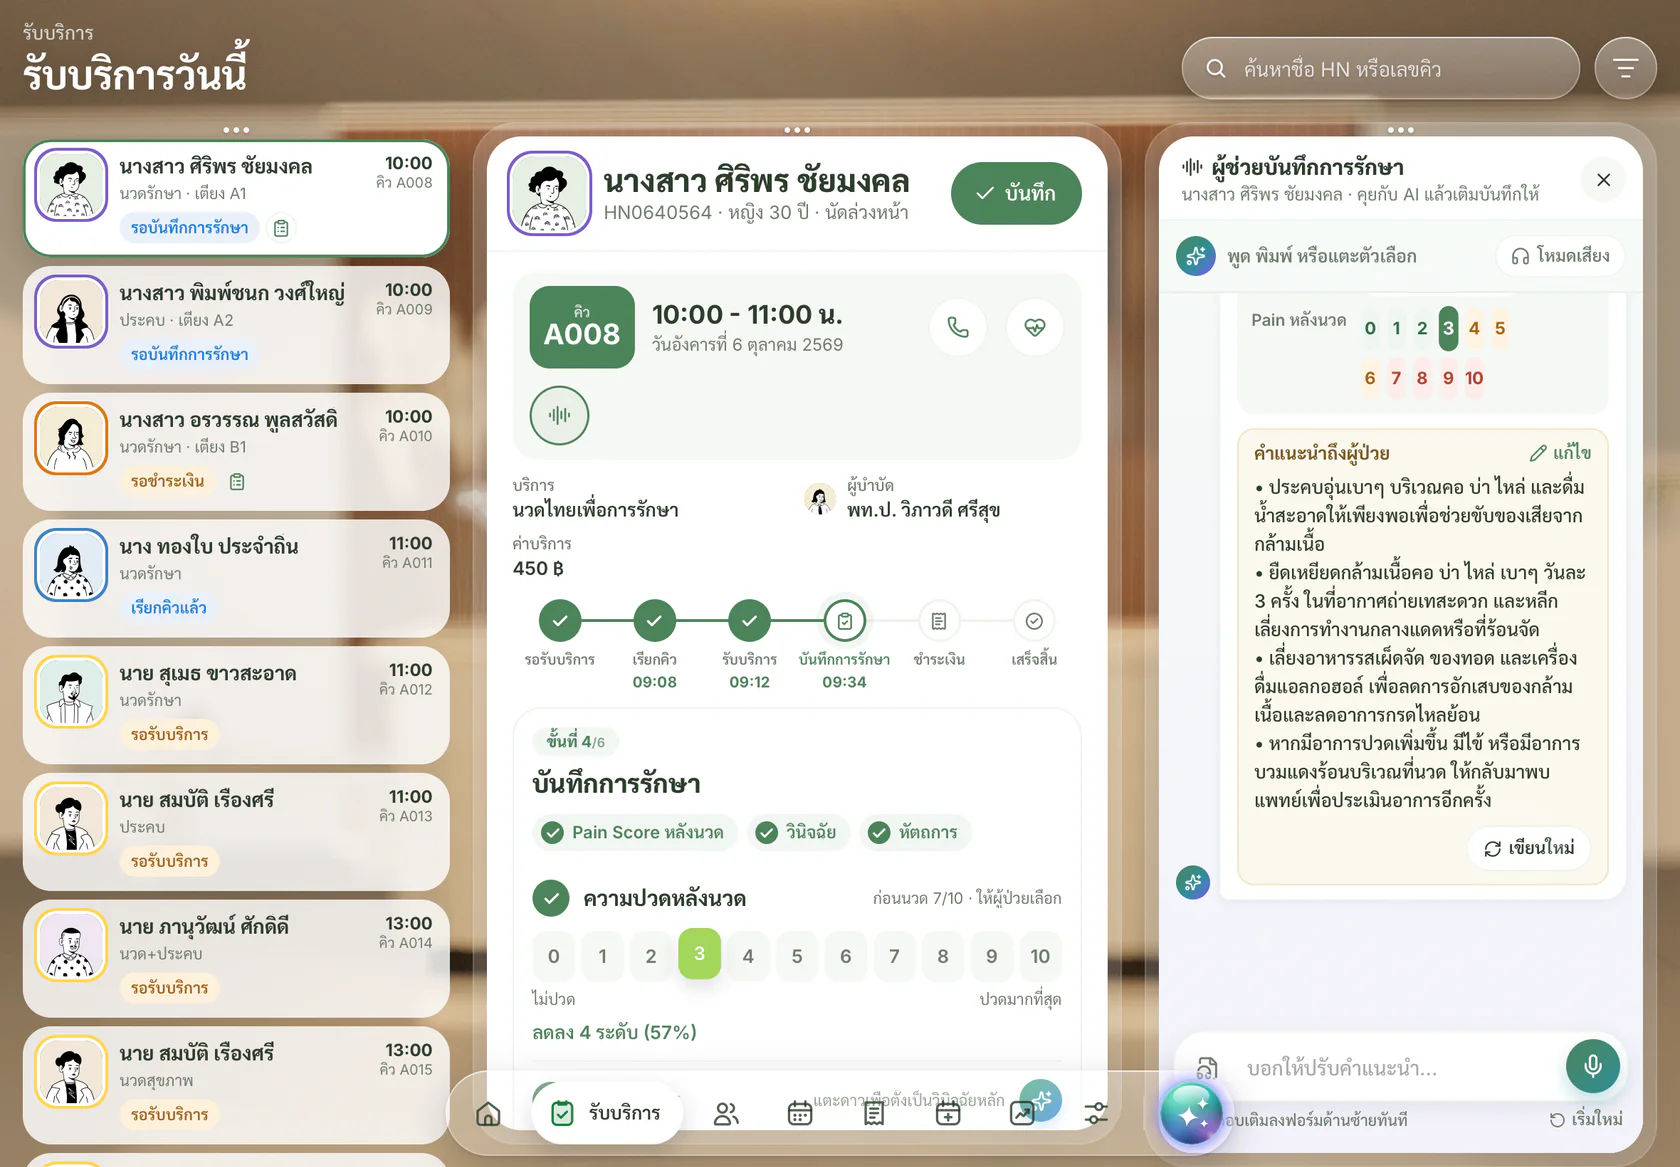
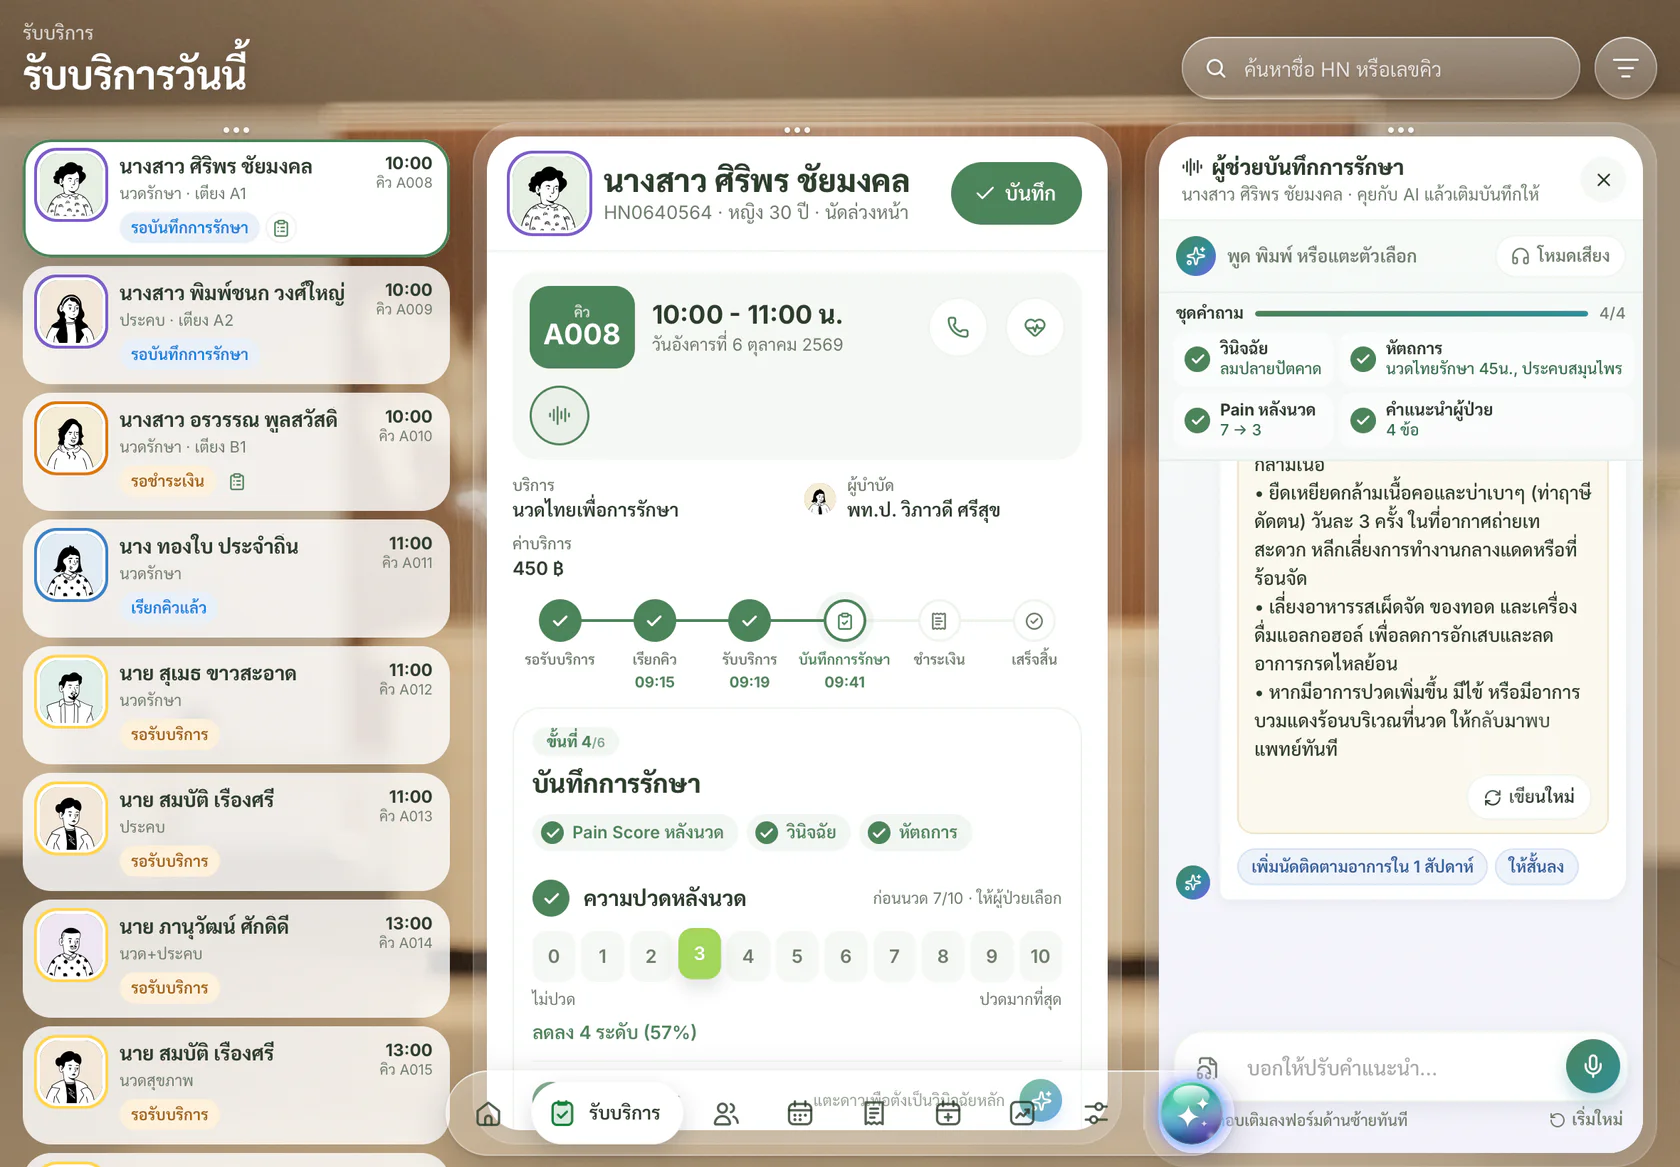
Treatment assistant: question set and quick replies
- 'ชุดคำถาม' panel: diagnosis / procedures / pain after / advice in a 2×2 grid with progress,
  answered values, the current question highlighted; tap one to have the AI ask it again
- Quick-reply chips under questions (example summaries, procedures, advice tweaks)
- QA, guide, tutorial and iPad app updated

diff --git a/src/features/UserGuide.tsx b/src/features/UserGuide.tsx
@@ -32,7 +32,7 @@ const CHAPTERS: { id: string; title: string; color: string; Icon: Icon; intro: s
     topics: [
       { q: "ขั้นตอนการรับบริการ", steps: ["เลือกผู้ป่วยจากรายการฝั่งซ้าย", "กด “เรียกคิว” ระบบจะประกาศเสียงเรียก", "กด “คัดกรองก่อนนวด” เปิดหน้าคัดกรอง (หุ่น 3D · ระดับปวด · ความดัน ชีพจร · คำถามก่อนนวด) แล้วบันทึก", "เลือกเตียงแล้ว “เริ่มรับบริการ” ระบบจับเวลาให้", "กด “จบการรักษา” → บันทึกการรักษา (วินิจฉัย หัตถการ Pain หลังนวด)", "เลือกวิธีชำระ เงินสด / พร้อมเพย์ / เครดิตคอร์ส → ออกใบเสร็จ"], tip: "ถ้าแถบคัดกรองเป็นสีแดง แปลว่าพบข้อห้าม · กดเริ่มแล้วระบบจะให้ใส่ชื่อแพทย์แผนไทยผู้ประเมินก่อน และบันทึกไว้ในประวัติของนัด" },
       { q: "ดูข้อมูลสุขภาพระหว่างรับบริการ", steps: ["กดไอคอนหัวใจข้างปุ่มโทร", "กล่องข้อมูลสุขภาพเปิดทางขวา มีหุ่น 3D จุดที่ปวด และประวัติ Pain Score"] },
-      { q: "ผู้ช่วยบันทึกการรักษา (แชทกับ AI)", steps: ["ถึงขั้นบันทึกการรักษา แผง “ผู้ช่วยบันทึกการรักษา” เปิดทางขวาเอง (หรือกดไอคอนคลื่นเสียงข้างปุ่มหัวใจ)", "เล่าการรักษาด้วยการพูด (แตะไมค์ ข้อความขึ้นตามเสียงพูดสด) พิมพ์ หรือแนบไฟล์เสียง", "AI ถามสิ่งที่ยังขาดทีละเรื่อง พร้อมตัวเลือกให้แตะตอบ เช่น ชิปวินิจฉัย หัตถการ แถบคะแนนปวด 0–10", "AI ร่างคำแนะนำถึงผู้ป่วย กด “แก้ไข” เพื่อพิมพ์เอง หรือพิมพ์/พูดสั่งให้ปรับ เช่น “เพิ่มท่ายืดคอ” แล้วกด “ใช้คำแนะนำนี้”", "การ์ดสรุปแก้ได้ทุกช่อง ทุกคำตอบเติมลงฟอร์มด้านซ้ายทันที แล้วกด “บันทึก”"], tip: "เปิด “โหมดเสียง” เพื่อคุยแบบไม่ต้องใช้มือ: AI พูดคำถาม แล้วฟังคำตอบเอง พูดจบเงียบ 1.5 วินาทีระบบส่งให้เอง" },
+      { q: "ผู้ช่วยบันทึกการรักษา (แชทกับ AI)", steps: ["ถึงขั้นบันทึกการรักษา แผง “ผู้ช่วยบันทึกการรักษา” เปิดทางขวาเอง (หรือกดไอคอนคลื่นเสียงข้างปุ่มหัวใจ)", "เล่าการรักษาด้วยการพูด (แตะไมค์ ข้อความขึ้นตามเสียงพูดสด) พิมพ์ หรือแนบไฟล์เสียง", "ด้านบนเป็น “ชุดคำถาม” 4 ข้อ (วินิจฉัย หัตถการ Pain หลังนวด คำแนะนำ) ขึ้น ✓ เมื่อตอบแล้ว แตะข้อไหนเพื่อให้ AI ถามข้อนั้นใหม่", "AI ถามสิ่งที่ยังขาดทีละเรื่อง พร้อมตัวเลือกให้แตะตอบ เช่น ชิปวินิจฉัย หัตถการ แถบคะแนนปวด 0–10 และมีตัวอย่างคำตอบให้แตะส่ง", "AI ร่างคำแนะนำถึงผู้ป่วย กด “แก้ไข” เพื่อพิมพ์เอง หรือพิมพ์/พูดสั่งให้ปรับ เช่น “เพิ่มท่ายืดคอ” แล้วกด “ใช้คำแนะนำนี้”", "การ์ดสรุปแก้ได้ทุกช่อง ทุกคำตอบเติมลงฟอร์มด้านซ้ายทันที แล้วกด “บันทึก”"], tip: "เปิด “โหมดเสียง” เพื่อคุยแบบไม่ต้องใช้มือ: AI พูดคำถาม แล้วฟังคำตอบเอง พูดจบเงียบ 1.5 วินาทีระบบส่งให้เอง" },
       { q: "ผู้ป่วยไม่มา", steps: ["กด “ไม่มา” ในขั้นรอเรียกคิว (เฉพาะนัดวันนี้)", "ถ้าผู้ป่วยมาถึงทีหลัง กด “ย้อนกลับ” ได้"] },
       { q: "ยกเลิกนัด", steps: ["เลือกนัดที่ยังไม่เริ่มรับบริการ แล้วกด “ยกเลิกนัด”", "เลือกผู้ยกเลิก (ผู้ป่วย / คลินิก) และเหตุผล ใส่หมายเหตุได้", "ถ้านัดอยู่ในแผนการรักษา เลือก “เฉพาะนัดนี้” หรือ “ยกเลิกนัดที่เหลือทั้งหมด”", "กดยืนยัน · เตียงว่างทันที เครดิตคอร์สคืนอัตโนมัติ ถ้าชำระเงินแล้วระบบยกเลิกใบเสร็จและบันทึกคืนเงิน"], tip: "ยกเลิกผิด กด “เลิกทำ” ที่แจ้งเตือน หรือเปิดนัดนั้นแล้วกด “ย้อนกลับ”" },
     ],

diff --git a/src/features/VoiceNote.tsx b/src/features/VoiceNote.tsx
@@ -178,14 +178,19 @@ export function VoiceNote({ appt }: { appt: Appointment; bare?: boolean }) {
   };
 
   /** ask for whatever is still missing (with its component) */
-  const askNext = async (prefix = "") => {
-    const slot = missing();
+  const askNext = (prefix = "") => ask(missing(), prefix);
+  /** ask one question of the set (also used when a step in the question strip is tapped) */
+  const ask = async (slot: Slot, prefix = "") => {
     if (slot === "advice") {
-      setThinking(true);
-      const a = await draftAdvice();
-      setThinking(false);
-      saveAdvice(a);
-      const t = `${prefix}ร่างคำแนะนำถึงผู้ป่วยให้แล้วค่ะ แก้ได้เลย หรือบอกให้ปรับตรงไหน`;
+      let a = latest.current.advice;
+      const had = !!a.trim();
+      if (!had) {
+        setThinking(true);
+        a = await draftAdvice();
+        setThinking(false);
+        saveAdvice(a);
+      }
+      const t = `${prefix}${had ? "คำแนะนำถึงผู้ป่วยตอนนี้ค่ะ" : "ร่างคำแนะนำถึงผู้ป่วยให้แล้วค่ะ"} แก้ได้เลย หรือบอกให้ปรับตรงไหน`;
       say("ai", t, "advice");
       void voice(t);
       return;
@@ -372,6 +377,34 @@ export function VoiceNote({ appt }: { appt: Appointment; bare?: boolean }) {
 
   const lastAiId = useMemo(() => [...msgs].reverse().find((m) => m.role === "ai")?.id, [msgs]);
 
+  /** the question set, shown as a strip above the chat */
+  const steps: { slot: Slot; label: string; value?: string }[] = [
+    { slot: "dx", label: "วินิจฉัย", value: dx.map((d) => d.name.replace(/\s*\(.*\)/, "")).join(", ") || undefined },
+    { slot: "proc", label: "หัตถการ", value: pr.map((x) => x.name.replace("เพื่อการรักษา", "รักษา").replace("เพื่อสุขภาพ", "สุขภาพ") + (x.minutes ? ` ${x.minutes}น.` : "")).join(", ") || undefined },
+    { slot: "pain", label: "Pain หลังนวด", value: pain !== undefined ? `${appt.painBefore} → ${pain}` : undefined },
+    { slot: "advice", label: "คำแนะนำผู้ป่วย", value: advice.trim() ? `${advice.trim().split("\n").length} ข้อ` : undefined },
+  ];
+  const doneCount = steps.filter((x) => x.value).length;
+  const askAgain = (slot: Slot) => {
+    if (thinking || rec) return;
+    stopSpeaking();
+    setPick([]);
+    void ask(slot);
+  };
+
+  /** quick replies under the current question */
+  const QUICK: Partial<Record<Slot | "open", string[]>> = {
+    open: [`ลมปลายปัตคาด นวดรักษาเส้นอิทา ${s.minutes} นาที ปวดเหลือ 3`, `ปวดหลังส่วนล่าง นวดรักษาและประคบสมุนไพร ปวดเหลือ 4`],
+    proc: [`นวดรักษาเส้นอิทา ปิงคลา ${s.minutes} นาที`, "ประคบสมุนไพร 20 นาที", "สอนท่าฤาษีดัดตน"],
+    advice: ["เพิ่มท่าฤาษีดัดตน", "เน้นประคบร้อนที่บ้าน", "เพิ่มอาหารที่ควรเลี่ยง", "ให้สั้นลง"],
+    summary: ["เพิ่มนัดติดตามอาการใน 1 สัปดาห์", "ให้สั้นลง"],
+  };
+  const quickFor = (m: Msg) => {
+    if (m.id !== lastAiId || thinking || rec) return [];
+    const key = m.kind ?? (m.id === msgs[0]?.id ? "open" : undefined);
+    return key ? (QUICK[key] ?? []) : [];
+  };
+
   const PainRow = ({ sm, onPick }: { sm?: boolean; onPick: (n: number) => void }) => (
     <div className={clsx("rc-pain", sm && "is-sm")} role="group" aria-label="คะแนนปวดหลังนวด">
       {Array.from({ length: 11 }, (_, n) => (
@@ -506,6 +539,34 @@ export function VoiceNote({ appt }: { appt: Appointment; bare?: boolean }) {
         </button>
       </div>
 
+      <div className="rc-steps" aria-label="ชุดคำถาม">
+        <div className="rc-steps__head">
+          <b>ชุดคำถาม</b>
+          <i>
+            <i style={{ width: `${(doneCount / steps.length) * 100}%` }} />
+          </i>
+          <small>
+            {doneCount}/{steps.length}
+          </small>
+        </div>
+        <ol>
+          {steps.map((x, i) => {
+            const now = pending === x.slot;
+            return (
+              <li key={x.slot}>
+                <button type="button" className={clsx(x.value && "is-done", now && "is-now")} onClick={() => askAgain(x.slot)} title={`ถามเรื่อง${x.label}อีกครั้ง`}>
+                  <i>{x.value ? <Check size={11} strokeWidth={3.2} /> : i + 1}</i>
+                  <span>
+                    <b>{x.label}</b>
+                    <small>{x.value ?? (now ? "กำลังถาม…" : "ยังไม่ได้ตอบ")}</small>
+                  </span>
+                </button>
+              </li>
+            );
+          })}
+        </ol>
+      </div>
+
       <div className="rc-list scroll-y scroll-y--light" ref={list}>
         {msgs.map((m) => (
           <motion.div key={m.id} className={`rc-msg is-${m.role}`} initial={{ opacity: 0, y: 8 }} animate={{ opacity: 1, y: 0 }} transition={{ duration: 0.22 }}>
@@ -530,6 +591,15 @@ export function VoiceNote({ appt }: { appt: Appointment; bare?: boolean }) {
                 </button>
               )}
               {widget(m)}
+              {quickFor(m).length > 0 && (
+                <div className="rc-quick">
+                  {quickFor(m).map((q) => (
+                    <button key={q} type="button" onClick={() => void onUser(q)}>
+                      {q}
+                    </button>
+                  ))}
+                </div>
+              )}
             </div>
           </motion.div>
         ))}

diff --git a/src/features/voice-note.css b/src/features/voice-note.css
@@ -505,3 +505,124 @@
 .work__body .vp__voice .vp__voice-body {
   padding: 0 !important;
 }
+
+/* question set */
+.rc-steps {
+  padding: 8px 10px 8px;
+  border-bottom: 1px solid rgba(76, 132, 90, 0.1);
+}
+.rc-steps__head {
+  display: flex;
+  align-items: center;
+  gap: 8px;
+  margin: 0 2px 6px;
+}
+.rc-steps__head b {
+  font: 700 11.5px/1 var(--font-sans);
+  color: var(--color-text);
+}
+.rc-steps__head > i {
+  display: block;
+  flex: 1;
+  height: 4px;
+  border-radius: 4px;
+  background: #e4ebe6;
+  overflow: hidden;
+}
+.rc-steps__head > i > i {
+  display: block;
+  height: 100%;
+  border-radius: inherit;
+  background: linear-gradient(90deg, #4c845a, #2f8f9a);
+  transition: width 0.4s ease;
+}
+.rc-steps__head small {
+  font: 700 11px/1 var(--font-sans);
+  color: var(--color-text-muted);
+}
+.rc-steps ol {
+  display: grid;
+  grid-template-columns: 1fr 1fr;
+  gap: 4px;
+  margin: 0;
+  padding: 0;
+  list-style: none;
+}
+.rc-steps button {
+  display: flex;
+  align-items: center;
+  gap: 7px;
+  width: 100%;
+  padding: 6px 8px;
+  border-radius: 10px;
+  background: rgba(255, 255, 255, 0.6);
+  text-align: left;
+  transition: background var(--dur-fast) var(--ease-out), box-shadow var(--dur-fast) var(--ease-out);
+}
+.rc-steps button:hover {
+  background: var(--white);
+}
+.rc-steps ol i {
+  display: grid;
+  place-items: center;
+  flex-shrink: 0;
+  width: 18px;
+  height: 18px;
+  border-radius: 50%;
+  box-shadow: inset 0 0 0 1.5px #c4cdc6;
+  font: 700 10px/1 var(--font-sans);
+  font-style: normal;
+  color: var(--color-text-muted);
+}
+.rc-steps button.is-done i {
+  background: var(--color-brand);
+  box-shadow: none;
+  color: var(--white);
+}
+.rc-steps button.is-now {
+  background: var(--white);
+  box-shadow: inset 0 0 0 1.5px #2f8f9a;
+}
+.rc-steps button.is-now:not(.is-done) i {
+  box-shadow: inset 0 0 0 1.5px #2f8f9a;
+  color: #2f8f9a;
+}
+.rc-steps span {
+  display: flex;
+  flex-direction: column;
+  gap: 1px;
+  min-width: 0;
+}
+.rc-steps b {
+  font: 700 11.5px/1.2 var(--font-sans);
+  color: var(--color-text);
+}
+.rc-steps small {
+  font: 500 11px/1.25 var(--font-sans);
+  color: var(--color-text-muted);
+  white-space: nowrap;
+  overflow: hidden;
+  text-overflow: ellipsis;
+}
+.rc-steps button.is-done small {
+  color: #2f6f4a;
+}
+/* quick replies */
+.rc-quick {
+  display: flex;
+  flex-wrap: wrap;
+  gap: 5px;
+  margin-top: 10px;
+}
+.rc-quick button {
+  padding: 6px 10px;
+  border-radius: 99px;
+  background: #eef3fb;
+  box-shadow: inset 0 0 0 1px #d6e2f3;
+  font: 600 11.5px/1.3 var(--font-sans);
+  color: #2f5f9a;
+  text-align: left;
+}
+.rc-quick button:hover {
+  background: #e3ecf9;
+}
